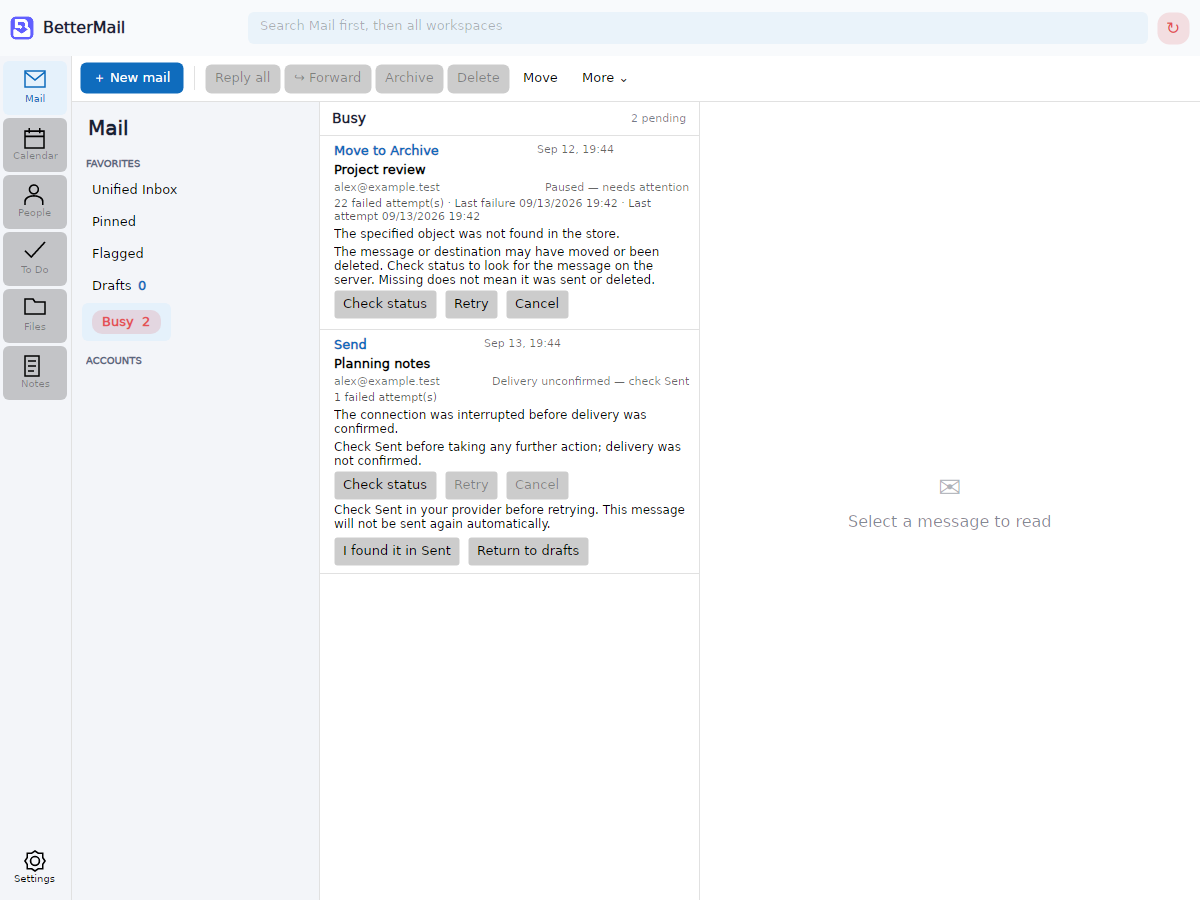
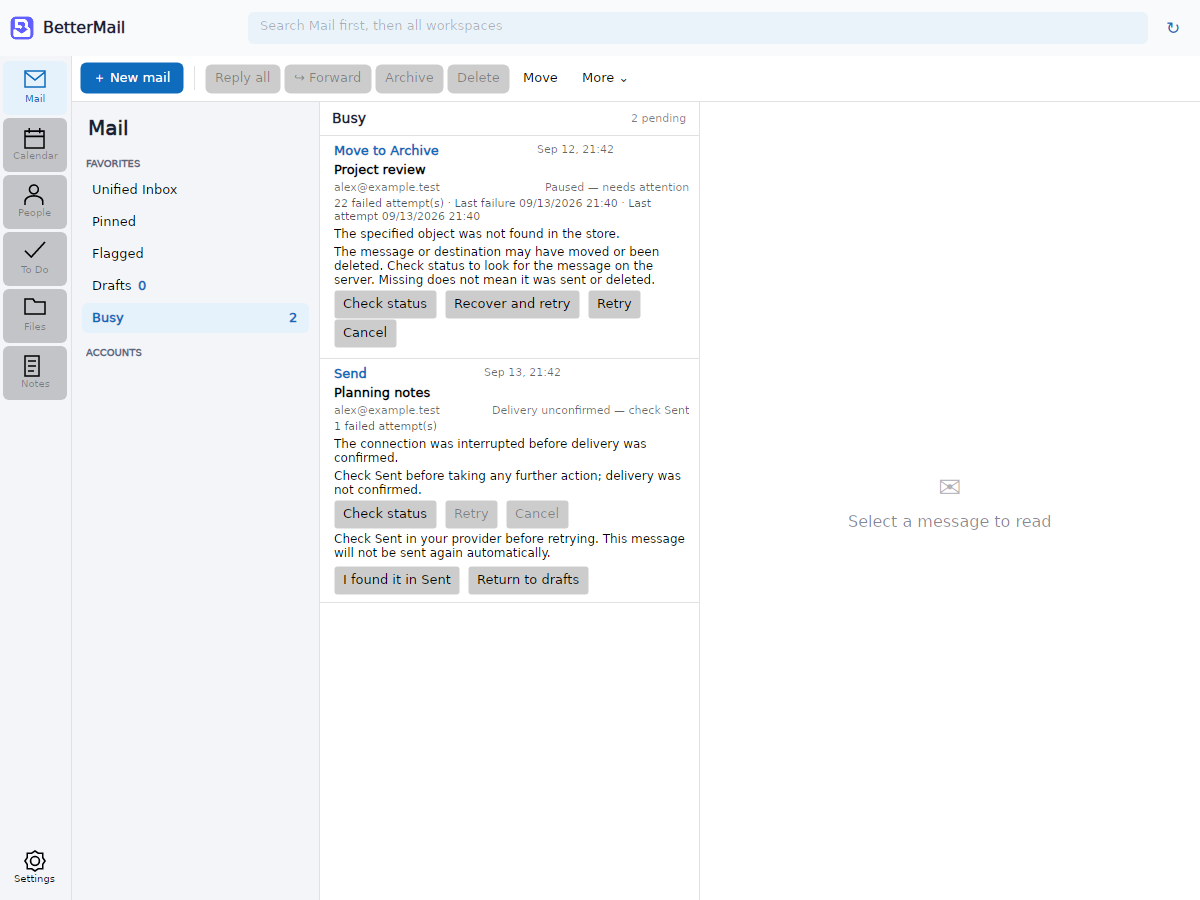
Drive sync colours from completed outcomes and simplify Busy navigation

diff --git a/src/BetterMail.App/MainWindowViewModel.MessageActions.cs b/src/BetterMail.App/MainWindowViewModel.MessageActions.cs
@@ -38,32 +38,58 @@ public sealed partial class MainWindowViewModel
         BusyActions.Any(action => action.Kind is MailActionKind.Move or MailActionKind.UpdateState && ActionMatches(action, message));
     private static bool ActionMatches(MailAction action, MailMessage message) => action.MailboxId == message.MailboxId &&
         (action.ProviderId == message.ProviderId || action.ItemId == message.ProviderId || (action.PreviousProviderIds ?? []).Contains(message.ProviderId));
-    private int _mailSyncFailureStreak;
-    private int _workspaceFailureStreak;
-    public int SyncSeverity => Math.Max(BusySeverity, Math.Min(2, Math.Max(_mailSyncFailureStreak, _workspaceFailureStreak)));
-    private static string BadgeBackground(int severity) => severity switch { 2 => "#24D13438", 1 => "#24D98200", _ => "#208A9AA9" };
-    private static string BadgeForeground(int severity) => severity switch { 2 => "#E45155", 1 => "#D98200", _ => "#8297AD" };
-    public string SyncBadgeBackground => BadgeBackground(SyncSeverity);
-    public string SyncBadgeForeground => BadgeForeground(SyncSeverity);
+    private int _syncSeverity;
+    private int _completedSyncSeverity;
+    private bool _workspaceWarning;
+    private HashSet<string> _failedBusyAtPreviousEnd = [];
+    public int SyncSeverity => Math.Max(_syncSeverity, _workspaceWarning ? 1 : 0);
+    public int BusySeverity => _completedSyncSeverity;
+    public bool SyncIsWarning => SyncSeverity == 1;
+    public bool SyncNeedsAttention => SyncSeverity == 2;
+    public bool SyncIsInformation => SyncSeverity == 0 && HasOutbox;
+    public bool BusyIsWarning => BusySeverity == 1;
+    public bool BusyNeedsAttention => BusySeverity == 2;
+
+    internal void BeginSyncOutcome()
+    {
+        _workspaceWarning = false;
+        // Red is latched until a completed sync empties Busy. Orange survives the retry run.
+        _syncSeverity = _completedSyncSeverity == 2 ? 2 : HasOutbox ? _completedSyncSeverity : 0;
+        MailActionStateChanged();
+    }
+
     internal void RecordSyncOutcome(bool failed, bool workspace = false)
     {
-        if (workspace) _workspaceFailureStreak = failed ? Math.Min(2, _workspaceFailureStreak + 1) : 0;
-        else _mailSyncFailureStreak = failed ? Math.Min(2, _mailSyncFailureStreak + 1) : 0;
+        if (workspace)
+        {
+            // Background workspace failures warn, but do not turn normal syncing red.
+            _workspaceWarning = failed;
+            if (!IsSyncing) _completedSyncSeverity = Math.Max(_syncSeverity, failed ? 1 : 0);
+        }
+        else
+        {
+            var failedBusy = BusyActions.Where(action => action.Error is not null || action.IsRetryPaused || action.NeedsSendReview)
+                .Select(action => action.Id).ToHashSet();
+            var stillStuck = failedBusy.Overlaps(_failedBusyAtPreviousEnd);
+            _completedSyncSeverity = HasOutbox && (_completedSyncSeverity == 2 || stillStuck) ? 2
+                : failed || failedBusy.Count > 0 || _workspaceWarning ? 1 : 0;
+            _failedBusyAtPreviousEnd = failedBusy;
+            _syncSeverity = _completedSyncSeverity;
+        }
         MailActionStateChanged();
     }
     public bool HasSyncIssues => SyncIssueCount > 0;
-    public int BusySeverity => BusyActions.Any(action => action.FailureCount >= 2 || action.NeedsSendReview) ? 2
-        : BusyActions.Any(action => action.FailureCount > 0 || action.Error is not null) ? 1 : 0;
-    public string BusyBadgeBackground => BusySeverity switch { 2 => "#24D13438", 1 => "#24D98200", _ => "#208A9AA9" };
-    public string BusyBadgeForeground => BusySeverity switch { 2 => "#E45155", 1 => "#D98200", _ => "#8297AD" };
     private void MailActionStateChanged()
     {
+        if (IsSyncing && _syncSeverity == 0 && BusyActions.Any(action => action.Error is not null || action.NeedsSendReview || action.IsRetryPaused))
+            _syncSeverity = 1;
         RaisePropertyChanged(nameof(SyncSeverity));
-        RaisePropertyChanged(nameof(SyncBadgeBackground));
-        RaisePropertyChanged(nameof(SyncBadgeForeground));
+        RaisePropertyChanged(nameof(SyncIsWarning));
+        RaisePropertyChanged(nameof(SyncNeedsAttention));
+        RaisePropertyChanged(nameof(SyncIsInformation));
         RaisePropertyChanged(nameof(BusySeverity));
-        RaisePropertyChanged(nameof(BusyBadgeBackground));
-        RaisePropertyChanged(nameof(BusyBadgeForeground));
+        RaisePropertyChanged(nameof(BusyIsWarning));
+        RaisePropertyChanged(nameof(BusyNeedsAttention));
         _mailActionVersion++;
         RaisePropertyChanged(nameof(MailActionVersion));
     }

diff --git a/tests/BetterMail.Tests/WorkspaceInteractionTests.cs b/tests/BetterMail.Tests/WorkspaceInteractionTests.cs
@@ -66,7 +66,7 @@ public sealed class WorkspaceInteractionTests
     }
 
     [Fact]
-    public async Task FailedSyncStepsEscalateTheBadgeUntilASuccessfulRetry()
+    public async Task FailedBackgroundSyncStepsWarnUntilSuccessfulRetry()
     {
         var vm = new MainWindowViewModel(null, Path.GetTempPath(), _ => { }, _ => { }, null);
         var step = new SyncStep("Draft reconciliation");
@@ -78,7 +78,7 @@ public sealed class WorkspaceInteractionTests
             await Assert.ThrowsAsync<InvalidOperationException>(() => (Task)run.Invoke(vm, [step, fail])!);
             Assert.False(step.Running);
             vm.RecordMailSyncOutcome(false);
-            Assert.Equal(attempt, vm.SyncSeverity);
+            Assert.Equal(1, vm.SyncSeverity);
         }
         Func<Task> succeed = () => Task.CompletedTask;
         await (Task)run.Invoke(vm, [step, succeed])!;
@@ -101,14 +101,36 @@ public sealed class WorkspaceInteractionTests
         vm.Drafts.Clear();
         Assert.True(notified);
         Assert.False(vm.HasSyncIssues);
+        vm.BeginSyncOutcome();
+        Assert.Equal(0, vm.SyncSeverity);
         vm.RecordSyncOutcome(true); Assert.Equal(1, vm.SyncSeverity);
-        vm.RecordSyncOutcome(true); Assert.Equal(2, vm.SyncSeverity);
+        vm.BeginSyncOutcome(); Assert.Equal(0, vm.SyncSeverity); // No stuck Busy work.
         vm.RecordSyncOutcome(false); Assert.Equal(0, vm.SyncSeverity);
-        var action = new MailAction("action", "one", "mailbox", "item", MailActionKind.Move, "Subject", DateTimeOffset.Now, FailureCount: 1);
-        vm.BusyActions.Add(action); Assert.Equal(1, vm.BusySeverity);
-        vm.BusyActions[0] = action with { FailureCount = 2 }; Assert.Equal(2, vm.SyncSeverity);
+        var action = new MailAction("action", "one", "mailbox", "item", MailActionKind.Move, "Subject", DateTimeOffset.Now);
+        vm.BusyActions.Add(action);
+        Assert.True(vm.SyncIsInformation);
+        Assert.Equal(0, vm.BusySeverity); // No badge and no warning from pending work alone.
+        vm.BeginSyncOutcome();
+        vm.BusyActions[0] = action with { Error = "Offline", FailureCount = 10 };
+        Assert.Equal(0, vm.BusySeverity); // Navigation changes only at the completed outcome.
+        vm.RecordSyncOutcome(false);
+        Assert.Equal(1, vm.SyncSeverity);
+        Assert.Equal(1, vm.BusySeverity); // Lifetime failure counts do not immediately turn it red.
+        vm.BeginSyncOutcome(); Assert.Equal(1, vm.SyncSeverity);
         vm.RecordSyncOutcome(false); Assert.Equal(2, vm.SyncSeverity);
-        vm.BusyActions.Clear(); Assert.Equal(0, vm.SyncSeverity);
+        vm.BeginSyncOutcome(); Assert.Equal(2, vm.SyncSeverity);
+        vm.BusyActions[0] = action; // Even a newly queued retry cannot clear latched red.
+        vm.RecordSyncOutcome(false); Assert.Equal(2, vm.BusySeverity);
+        vm.BusyActions.Clear(); Assert.Equal(2, vm.SyncSeverity);
+        vm.BeginSyncOutcome(); Assert.Equal(2, vm.SyncSeverity);
+        vm.RecordSyncOutcome(false);
+        Assert.Equal(0, vm.SyncSeverity);
+        Assert.Equal(0, vm.BusySeverity);
+        vm.RecordSyncOutcome(true, workspace: true);
+        vm.RecordSyncOutcome(true, workspace: true);
+        Assert.Equal(1, vm.SyncSeverity); // Workspace errors never accumulate into red.
+        vm.BeginSyncOutcome(); Assert.Equal(0, vm.SyncSeverity);
+
     }
 
     [Fact]

diff --git a/tools/BetterMail.UiPreview/Program.Busy.cs b/tools/BetterMail.UiPreview/Program.Busy.cs
@@ -29,6 +29,10 @@ internal static partial class Program
             window.Position = new PixelPoint(0, 0);
             foreach (var theme in new[] { ThemeVariant.Light, ThemeVariant.Dark })
             {
+                var rows = vm.BusyActions.ToArray();
+                vm.BusyActions.Clear();
+                typeof(MainWindowViewModel).GetMethod("RecordSyncOutcome", System.Reflection.BindingFlags.NonPublic | System.Reflection.BindingFlags.Instance)!.Invoke(vm, [false, false]);
+                foreach (var row in rows) vm.BusyActions.Add(row);
                 Application.Current!.RequestedThemeVariant = theme;
                 await Task.Delay(700);
                 if (!window.GetVisualDescendants().OfType<SelectableTextBlock>().Any(text => text.Text == "The specified object was not found in the store."))
@@ -37,6 +41,18 @@ internal static partial class Program
                     "tools/BetterMail.UiPreview/capture.py", Path.Combine(output, "busy-" + theme.ToString().ToLowerInvariant() + ".png"), "1200", "900" } })!;
                 await capture.WaitForExitAsync();
                 if (capture.ExitCode != 0) throw new InvalidOperationException("Busy capture failed.");
+                foreach (var (state, colour) in new[] { ("orange", "#D98200"), ("red", "#E45155") })
+                {
+                    typeof(MainWindowViewModel).GetMethod("RecordSyncOutcome", System.Reflection.BindingFlags.NonPublic | System.Reflection.BindingFlags.Instance)!.Invoke(vm, [false, false]);
+                    await Task.Delay(200);
+                    foreach (var name in new[] { "SyncStatusButton", "BusyNavigationButton" })
+                        if (window.FindControl<Button>(name)!.Foreground is not Avalonia.Media.ISolidColorBrush brush || brush.Color != Avalonia.Media.Color.Parse(colour))
+                            throw new InvalidOperationException(name + " did not show " + state);
+                    using var coloured = Process.Start(new ProcessStartInfo("python3") { ArgumentList = {
+                        "tools/BetterMail.UiPreview/capture.py", Path.Combine(output, "busy-" + theme.ToString().ToLowerInvariant() + "-" + state + ".png"), "1200", "900" } })!;
+                    await coloured.WaitForExitAsync();
+                    if (coloured.ExitCode != 0) throw new InvalidOperationException("Colour capture failed.");
+                }
             }
         }
         finally { window.Close(); Directory.Delete(directory, true); }

diff --git a/src/BetterMail.App/MainWindowViewModel.Sync.cs b/src/BetterMail.App/MainWindowViewModel.Sync.cs
@@ -68,6 +68,7 @@ public sealed partial class MainWindowViewModel
         }
 
         StopContactPhotoSync();
+        BeginSyncOutcome();
         IsSyncing = true;
         Status = "Syncing mail...";
         Error = null;
